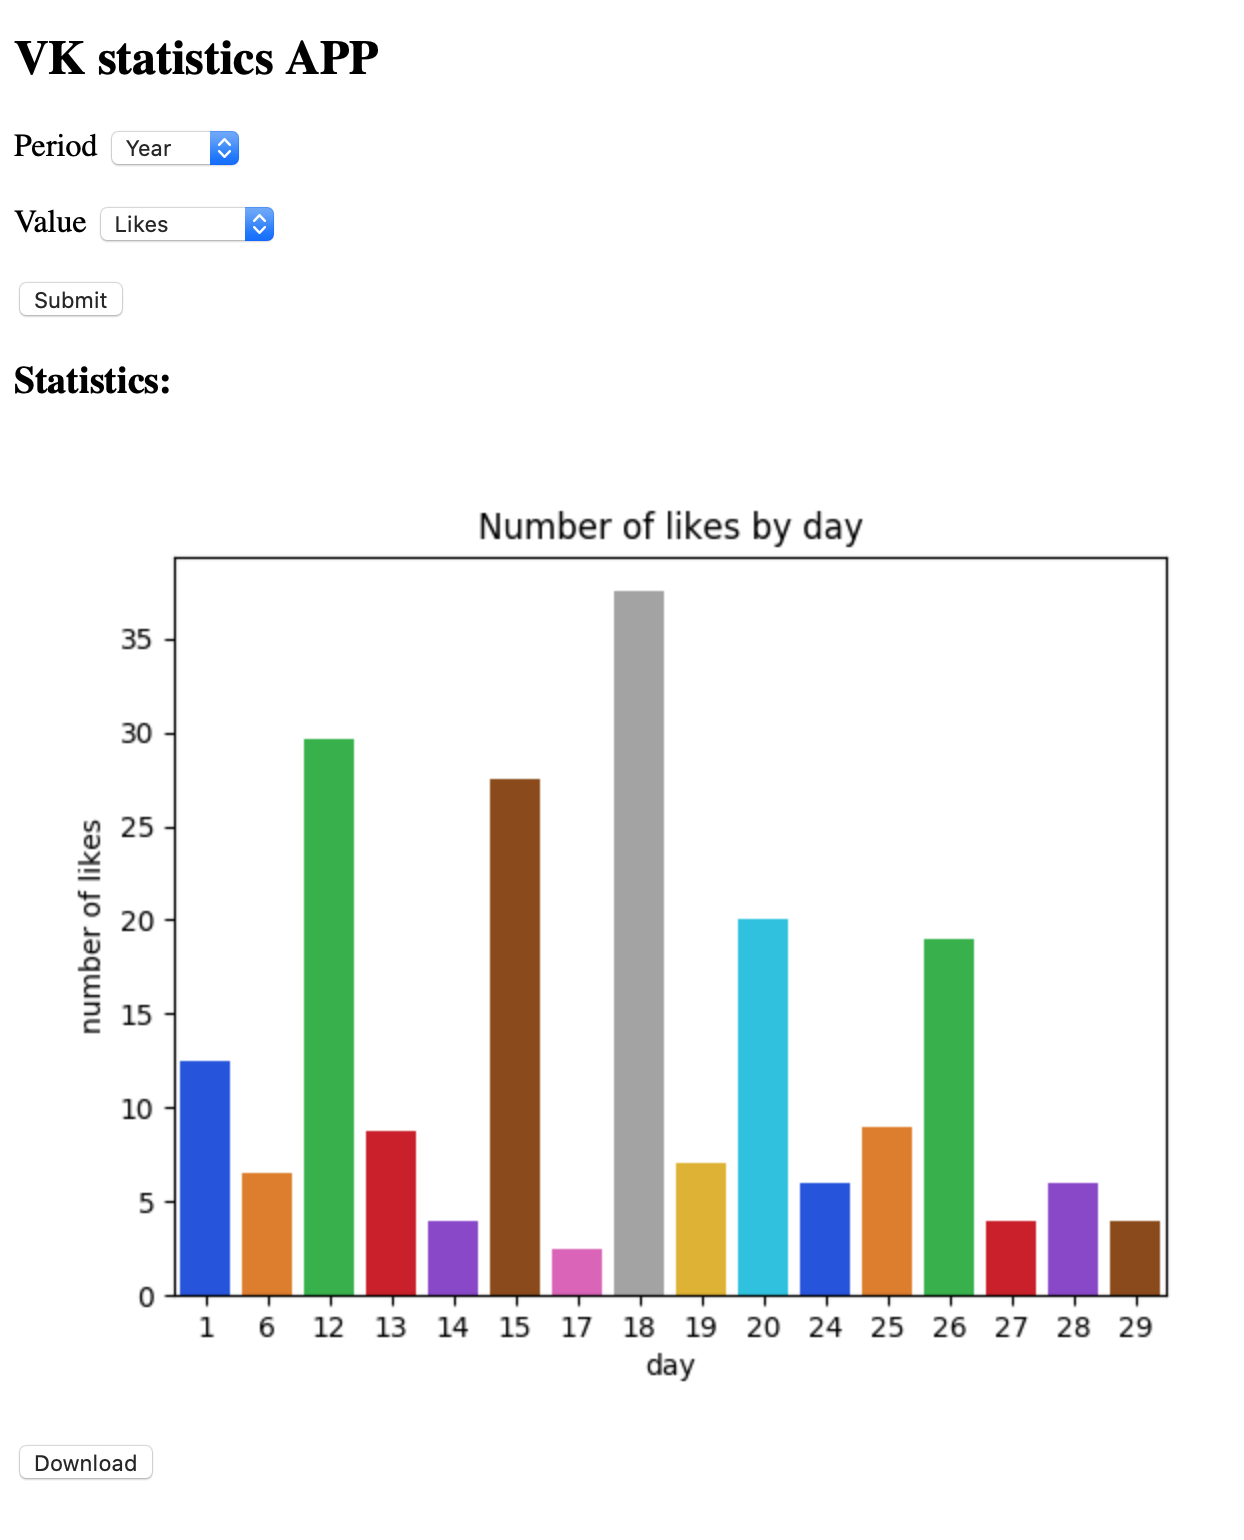
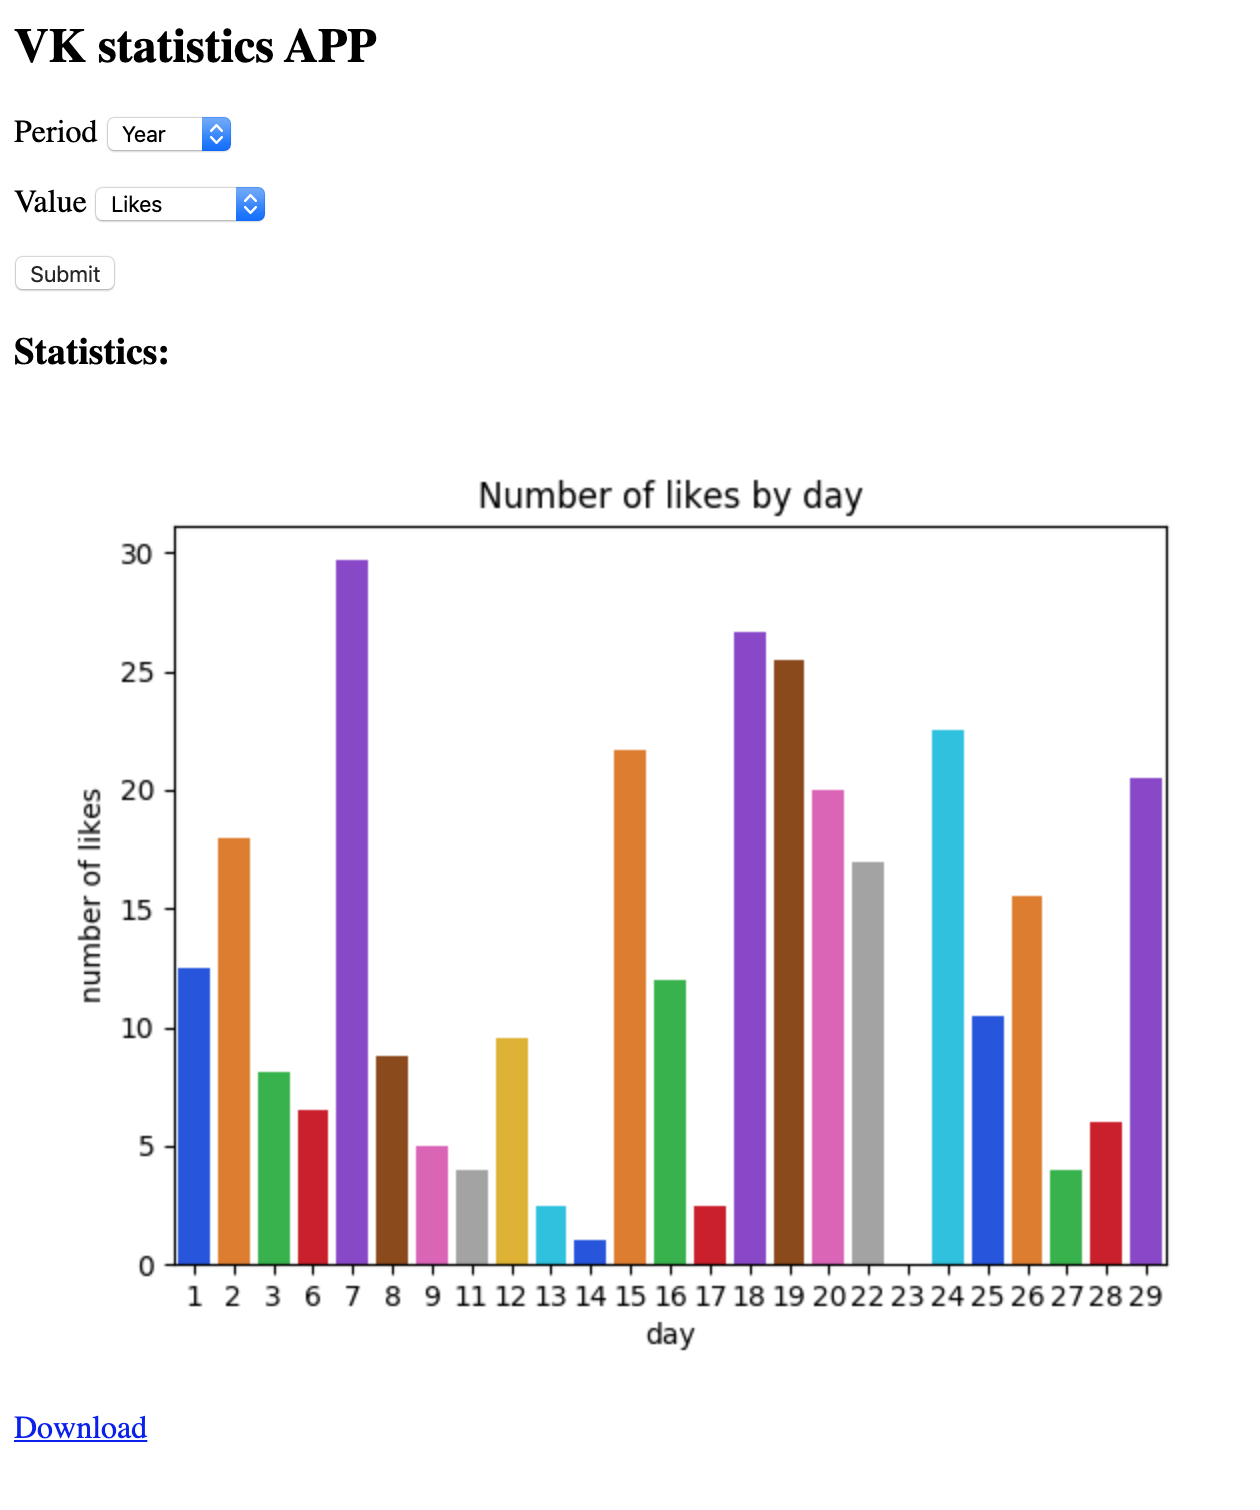
readme and screenshot edited

Changed region(s): [[0.0611, 0.3113, 0.9469, 0.9026], [0.0, 0.0, 0.3055, 0.2801], [0.0, 0.9338, 0.1222, 0.9649]]

diff --git a/README.md b/README.md
@@ -53,7 +53,7 @@ If *Graphic button* has been pressed then the page "Graphic" will be open.
 
 Here you can select the period for which data needed, and the necessary values.
 
-After clicking *submit button* data will be displayed. Also there will be a *Download button* which allows to download the graphic.
+After clicking *submit button* data will be displayed. Also there will be a *Download link* which allows to download the graphic.
 
 ![picture](./pictures/graphic1.png)
 
